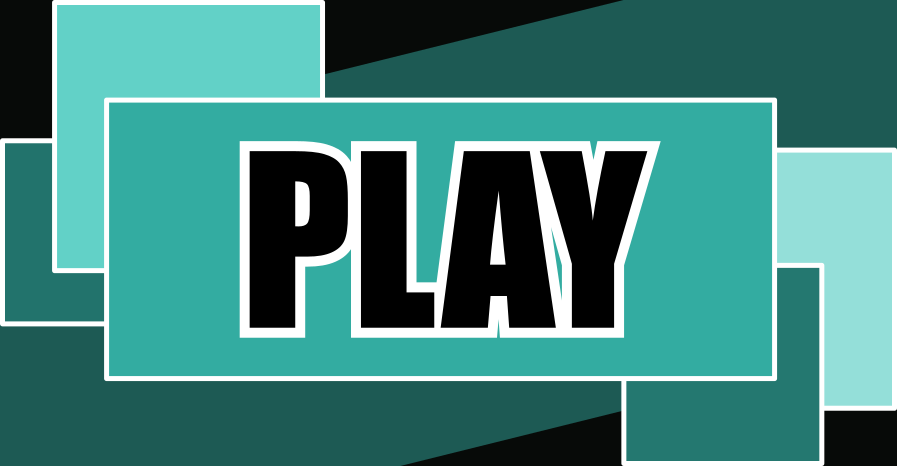
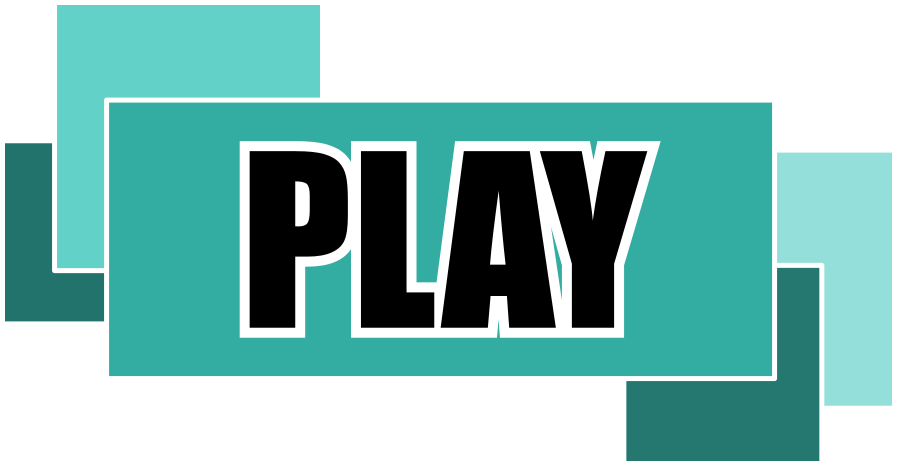
BABYLON.GUI layout, work in progress.

diff --git a/scripts/app.js b/scripts/app.js
@@ -358,12 +358,43 @@ window.addEventListener("DOMContentLoaded", () => {
     main.createScene();
     main.animate();
     main.guiTexture = BABYLON.GUI.AdvancedDynamicTexture.CreateFullscreenUI("GUITexture");
+    main.guiTexture.idealHeight = 1920;
     MainMenu.Open(main.guiTexture);
 });
 class MainMenu {
     static Open(guiTexture) {
         let background = new BABYLON.GUI.Image("background", "./img/background.png");
         guiTexture.addControl(background);
+        let playButton = BABYLON.GUI.Button.CreateImageOnlyButton("play-button", "./img/play-button.png");
+        playButton.height = "465px";
+        playButton.width = "897px";
+        playButton.top = "-849px";
+        playButton.verticalAlignment = BABYLON.GUI.Control.VERTICAL_ALIGNMENT_BOTTOM;
+        playButton.thickness = 0;
+        guiTexture.addControl(playButton);
+        let optionsButton = BABYLON.GUI.Button.CreateImageOnlyButton("options-button", "./img/options-button.png");
+        optionsButton.height = "239px";
+        optionsButton.width = "642px";
+        optionsButton.top = "-510px";
+        optionsButton.verticalAlignment = BABYLON.GUI.Control.VERTICAL_ALIGNMENT_BOTTOM;
+        optionsButton.thickness = 0;
+        guiTexture.addControl(optionsButton);
+        let aboutButton = BABYLON.GUI.Button.CreateImageOnlyButton("about-button", "./img/about-button.png");
+        aboutButton.height = "151px";
+        aboutButton.width = "370px";
+        aboutButton.top = "-245px";
+        aboutButton.left = "-245px";
+        aboutButton.verticalAlignment = BABYLON.GUI.Control.VERTICAL_ALIGNMENT_BOTTOM;
+        aboutButton.thickness = 0;
+        guiTexture.addControl(aboutButton);
+        let licenceButton = BABYLON.GUI.Button.CreateImageOnlyButton("licence-button", "./img/licence-button.png");
+        licenceButton.height = "151px";
+        licenceButton.width = "370px";
+        licenceButton.top = "-245px";
+        licenceButton.left = "245px";
+        licenceButton.verticalAlignment = BABYLON.GUI.Control.VERTICAL_ALIGNMENT_BOTTOM;
+        licenceButton.thickness = 0;
+        guiTexture.addControl(licenceButton);
     }
 }
 class Page {

diff --git a/scripts/MainMenu.ts b/scripts/MainMenu.ts
@@ -3,5 +3,39 @@ class MainMenu {
     public static Open(guiTexture: BABYLON.GUI.AdvancedDynamicTexture): void {
         let background: BABYLON.GUI.Image = new BABYLON.GUI.Image("background", "./img/background.png");
         guiTexture.addControl(background);
+
+        let playButton: BABYLON.GUI.Button = BABYLON.GUI.Button.CreateImageOnlyButton("play-button", "./img/play-button.png");
+        playButton.height = "465px";
+        playButton.width = "897px";
+        playButton.top = "-849px";
+        playButton.verticalAlignment = BABYLON.GUI.Control.VERTICAL_ALIGNMENT_BOTTOM;
+        playButton.thickness = 0;
+        guiTexture.addControl(playButton);
+        
+        let optionsButton: BABYLON.GUI.Button = BABYLON.GUI.Button.CreateImageOnlyButton("options-button", "./img/options-button.png");
+        optionsButton.height = "239px";
+        optionsButton.width = "642px";
+        optionsButton.top = "-510px";
+        optionsButton.verticalAlignment = BABYLON.GUI.Control.VERTICAL_ALIGNMENT_BOTTOM;
+        optionsButton.thickness = 0;
+        guiTexture.addControl(optionsButton);
+        
+        let aboutButton: BABYLON.GUI.Button = BABYLON.GUI.Button.CreateImageOnlyButton("about-button", "./img/about-button.png");
+        aboutButton.height = "151px";
+        aboutButton.width = "370px";
+        aboutButton.top = "-245px";
+        aboutButton.left = "-245px";
+        aboutButton.verticalAlignment = BABYLON.GUI.Control.VERTICAL_ALIGNMENT_BOTTOM;
+        aboutButton.thickness = 0;
+        guiTexture.addControl(aboutButton);
+        
+        let licenceButton: BABYLON.GUI.Button = BABYLON.GUI.Button.CreateImageOnlyButton("licence-button", "./img/licence-button.png");
+        licenceButton.height = "151px";
+        licenceButton.width = "370px";
+        licenceButton.top = "-245px";
+        licenceButton.left = "245px";
+        licenceButton.verticalAlignment = BABYLON.GUI.Control.VERTICAL_ALIGNMENT_BOTTOM;
+        licenceButton.thickness = 0;
+        guiTexture.addControl(licenceButton);
     }
 }

diff --git a/scripts/Main.ts b/scripts/Main.ts
@@ -41,5 +41,6 @@ window.addEventListener("DOMContentLoaded", () => {
     main.createScene();
     main.animate();
     main.guiTexture = BABYLON.GUI.AdvancedDynamicTexture.CreateFullscreenUI("GUITexture");
+    main.guiTexture.idealHeight = 1920;
     MainMenu.Open(main.guiTexture);
 });
